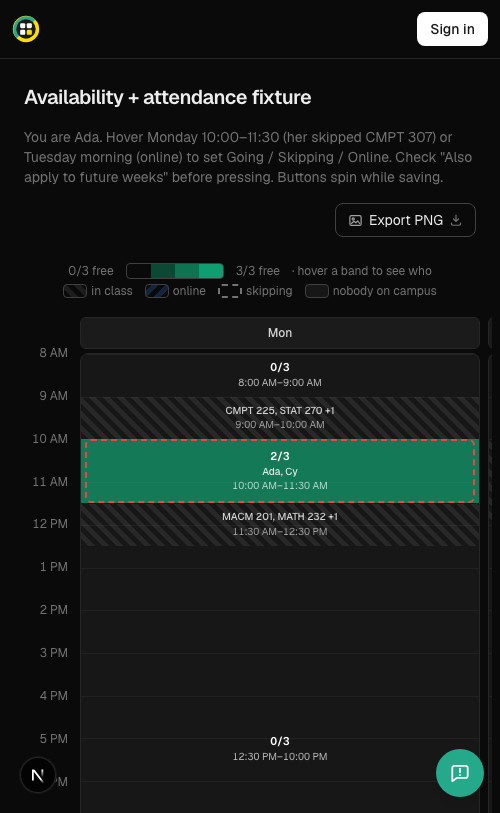
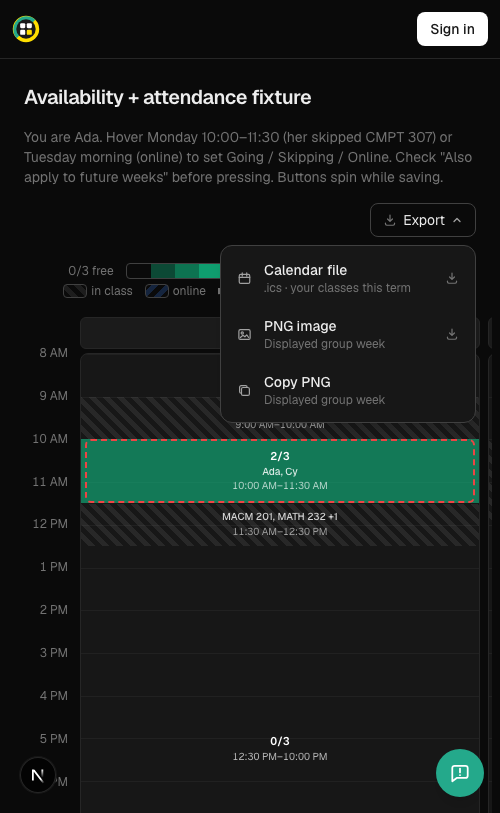
Combine calendar export options

Changed region(s): [[0.42, 0.246, 0.93, 0.5228], [0.72, 0.492, 0.75, 0.5228]]

diff --git a/components/CalendarTools.tsx b/components/CalendarTools.tsx
@@ -1,6 +1,6 @@
 "use client";
 
-import { useState, type RefObject } from "react";
+import { useEffect, useId, useRef, useState, type RefObject } from "react";
 import { calendarPngFilename } from "@/lib/calendar-image";
 
 interface Props {
@@ -15,7 +15,7 @@ interface Props {
 }
 
 /**
- * Downloads either the viewer's recurring classes or the displayed group week.
+ * Exports either the viewer's recurring classes or the displayed group week.
  *
  * The calendar link stays browser-native because its route already responds as
  * an attachment. The PNG is made from an off-screen clone of the rendered grid,
@@ -30,13 +30,39 @@ export function CalendarTools({
   week,
   view,
 }: Props) {
-  const [pngState, setPngState] = useState<"idle" | "saving" | "error">("idle");
+  const [pngAction, setPngAction] = useState<"download" | "copy" | null>(null);
+  const [pngError, setPngError] = useState<"download" | "copy" | null>(null);
+  const [copied, setCopied] = useState(false);
+  const [menuOpen, setMenuOpen] = useState(false);
+  const menuId = useId();
+  const menuRef = useRef<HTMLDivElement>(null);
+  const triggerRef = useRef<HTMLButtonElement>(null);
 
-  async function savePng() {
+  useEffect(() => {
+    if (!menuOpen) return;
+
+    function closeOutside(event: PointerEvent) {
+      if (!menuRef.current?.contains(event.target as Node)) setMenuOpen(false);
+    }
+
+    function closeOnEscape(event: KeyboardEvent) {
+      if (event.key !== "Escape") return;
+      setMenuOpen(false);
+      triggerRef.current?.focus();
+    }
+
+    document.addEventListener("pointerdown", closeOutside);
+    document.addEventListener("keydown", closeOnEscape);
+    return () => {
+      document.removeEventListener("pointerdown", closeOutside);
+      document.removeEventListener("keydown", closeOnEscape);
+    };
+  }, [menuOpen]);
+
+  async function renderPng(): Promise<Blob> {
     const calendar = calendarRef.current;
-    if (!calendar || pngState === "saving") return;
+    if (!calendar) throw new Error("The calendar is not ready to export.");
 
-    setPngState("saving");
     let clone: HTMLDivElement | null = null;
 
     try {
@@ -61,52 +87,121 @@ export function CalendarTools({
           !(node instanceof HTMLElement) || node.dataset.calendarExportIgnore !== "true",
       });
       if (!blob) throw new Error("The browser did not create an image.");
-
-      const url = URL.createObjectURL(blob);
-      const link = document.createElement("a");
-      link.download = calendarPngFilename(groupName, week, view);
-      link.href = url;
-      link.click();
-      setTimeout(() => URL.revokeObjectURL(url), 0);
-      setPngState("idle");
-    } catch (error) {
-      console.error("Could not export the calendar as PNG", error);
-      setPngState("error");
+      return blob;
     } finally {
       clone?.remove();
     }
   }
 
+  async function exportPng(action: "download" | "copy") {
+    if (pngAction) return;
+    setMenuOpen(false);
+    setPngError(null);
+    setPngAction(action);
+
+    try {
+      if (action === "copy") {
+        const blob = renderPng();
+        await navigator.clipboard.write([new ClipboardItem({ "image/png": blob })]);
+        setCopied(true);
+        setTimeout(() => setCopied(false), 2000);
+      } else {
+        const blob = await renderPng();
+        const url = URL.createObjectURL(blob);
+        const link = document.createElement("a");
+        link.download = calendarPngFilename(groupName, week, view);
+        link.href = url;
+        link.click();
+        setTimeout(() => URL.revokeObjectURL(url), 0);
+      }
+    } catch (error) {
+      console.error(`Could not ${action} the calendar PNG`, error);
+      setPngError(action);
+      setMenuOpen(true);
+    } finally {
+      setPngAction(null);
+    }
+  }
+
   return (
-    <>
-      {memberId !== null && (
-        <a
-          href={`/api/groups/${groupCode}/members/${memberId}/calendar`}
-          title="Download your classes this term as an .ics calendar file"
-          className="flex shrink-0 items-center gap-1.5 whitespace-nowrap rounded-lg border border-neutral-300 px-3 py-1.5 text-sm transition-colors hover:bg-neutral-100 dark:border-neutral-700 dark:hover:bg-neutral-800"
-        >
-          <CalendarIcon />
-          Export Calendar
-          <DownloadIcon />
-        </a>
-      )}
+    <div ref={menuRef} className="relative shrink-0">
       <button
+        ref={triggerRef}
         type="button"
-        onClick={savePng}
-        disabled={pngState === "saving"}
-        aria-label={pngState === "error" ? "PNG export failed. Try again" : undefined}
+        onClick={() => setMenuOpen((open) => !open)}
+        disabled={pngAction !== null}
+        aria-expanded={menuOpen}
+        aria-controls={menuId}
+        aria-live="polite"
         title={
-          pngState === "error"
-            ? "Could not save the PNG. Try again."
-            : "Download the displayed group calendar as a PNG image"
+          pngError
+            ? `PNG ${pngError} failed. Open to try again.`
+            : "Export this calendar"
         }
         className="flex shrink-0 items-center gap-1.5 whitespace-nowrap rounded-lg border border-neutral-300 px-3 py-1.5 text-sm transition-colors hover:bg-neutral-100 disabled:cursor-wait disabled:opacity-60 dark:border-neutral-700 dark:hover:bg-neutral-800"
       >
-        <ImageIcon />
-        {pngState === "saving" ? "Saving PNG…" : pngState === "error" ? "Try PNG again" : "Export PNG"}
-        {pngState === "saving" ? <SpinnerIcon /> : <DownloadIcon />}
+        {copied ? <CheckIcon /> : <DownloadIcon />}
+        {pngAction === "download"
+          ? "Saving PNG…"
+          : pngAction === "copy"
+            ? "Copying PNG…"
+            : copied
+              ? "Copied!"
+              : "Export"}
+        {pngAction ? <SpinnerIcon /> : <ChevronIcon open={menuOpen} />}
       </button>
-    </>
+
+      {menuOpen && (
+        <div
+          id={menuId}
+          role="group"
+          aria-label="Export options"
+          className="absolute right-0 top-full z-30 mt-2 w-64 overflow-hidden rounded-xl border border-neutral-200 bg-white p-1 shadow-lg dark:border-neutral-700 dark:bg-neutral-900"
+        >
+          {memberId !== null && (
+            <a
+              href={`/api/groups/${groupCode}/members/${memberId}/calendar`}
+              onClick={() => setMenuOpen(false)}
+              className="flex items-center gap-3 rounded-lg px-3 py-2.5 text-left transition-colors hover:bg-neutral-100 dark:hover:bg-neutral-800"
+            >
+              <CalendarIcon />
+              <span className="flex min-w-0 flex-1 flex-col">
+                <span className="text-sm font-medium">Calendar file</span>
+                <span className="text-xs text-neutral-500">.ics · your classes this term</span>
+              </span>
+              <DownloadIcon />
+            </a>
+          )}
+          <button
+            type="button"
+            onClick={() => exportPng("download")}
+            className="flex w-full items-center gap-3 rounded-lg px-3 py-2.5 text-left transition-colors hover:bg-neutral-100 dark:hover:bg-neutral-800"
+          >
+            <ImageIcon />
+            <span className="flex min-w-0 flex-1 flex-col">
+              <span className="text-sm font-medium">
+                {pngError === "download" ? "Try PNG download again" : "PNG image"}
+              </span>
+              <span className="text-xs text-neutral-500">Displayed group week</span>
+            </span>
+            <DownloadIcon />
+          </button>
+          <button
+            type="button"
+            onClick={() => exportPng("copy")}
+            className="flex w-full items-center gap-3 rounded-lg px-3 py-2.5 text-left transition-colors hover:bg-neutral-100 dark:hover:bg-neutral-800"
+          >
+            <CopyIcon />
+            <span className="flex min-w-0 flex-1 flex-col">
+              <span className="text-sm font-medium">
+                {pngError === "copy" ? "Try copying PNG again" : "Copy PNG"}
+              </span>
+              <span className="text-xs text-neutral-500">Displayed group week</span>
+            </span>
+          </button>
+        </div>
+      )}
+    </div>
   );
 }
 
@@ -143,6 +238,31 @@ function SpinnerIcon() {
     <svg width="14" height="14" viewBox="0 0 20 20" fill="none" aria-hidden className="shrink-0 animate-spin text-neutral-400 dark:text-neutral-500">
       <circle cx="10" cy="10" r="7" stroke="currentColor" strokeOpacity="0.25" strokeWidth="2" />
       <path d="M17 10a7 7 0 00-7-7" stroke="currentColor" strokeWidth="2" strokeLinecap="round" />
+    </svg>
+  );
+}
+
+function ChevronIcon({ open }: { open: boolean }) {
+  return (
+    <svg width="12" height="12" viewBox="0 0 16 16" fill="none" stroke="currentColor" strokeWidth="1.75" strokeLinecap="round" strokeLinejoin="round" aria-hidden className={`shrink-0 text-neutral-400 transition-transform ${open ? "rotate-180" : ""}`}>
+      <path d="M4 6l4 4 4-4" />
+    </svg>
+  );
+}
+
+function CopyIcon() {
+  return (
+    <svg width="15" height="15" viewBox="0 0 20 20" fill="none" stroke="currentColor" strokeWidth="1.6" strokeLinejoin="round" aria-hidden className="shrink-0 text-neutral-500 dark:text-neutral-400">
+      <rect x="6" y="6" width="10.5" height="10.5" rx="2" />
+      <path d="M13.5 6V5.5a2 2 0 00-2-2h-6a2 2 0 00-2 2v6a2 2 0 002 2H6" />
+    </svg>
+  );
+}
+
+function CheckIcon() {
+  return (
+    <svg width="14" height="14" viewBox="0 0 20 20" fill="none" stroke="currentColor" strokeWidth="2" strokeLinecap="round" strokeLinejoin="round" aria-hidden className="shrink-0 text-emerald-600 dark:text-emerald-400">
+      <path d="M4 10.5l4 4L16 6" />
     </svg>
   );
 }

diff --git a/app/g/[code]/page.tsx b/app/g/[code]/page.tsx
@@ -732,9 +732,9 @@ function GroupSchedule({ code }: { code: string }) {
           threshold is what the layout actually costs — the outer tracks are
           `1fr` each, so the empty left one is forced to mirror the right one,
           and the row needs twice the controls plus the date. Under that it
-          squeezed instead, clipping the view toggle and export buttons. */}
-      <div className="flex flex-wrap items-center justify-center gap-2 @min-[74rem]:grid @min-[74rem]:grid-cols-[1fr_auto_1fr]">
-        <div className="flex items-center gap-2 @min-[74rem]:justify-self-start">
+          squeezed instead, clipping the view toggle and export menu. */}
+      <div className="flex flex-wrap items-center justify-center gap-2 @min-[68rem]:grid @min-[68rem]:grid-cols-[1fr_auto_1fr]">
+        <div className="flex items-center gap-2 @min-[68rem]:justify-self-start">
           {week !== thisMonday && weekInTerm(thisMonday) && (
             <button
               onClick={() => setWeek(thisMonday)}
@@ -767,7 +767,7 @@ function GroupSchedule({ code }: { code: string }) {
           </button>
         </div>
 
-        <div className="flex flex-wrap items-center justify-center gap-2 @min-[74rem]:flex-nowrap @min-[74rem]:justify-self-end">
+        <div className="flex flex-wrap items-center justify-center gap-2 @min-[68rem]:flex-nowrap @min-[68rem]:justify-self-end">
           {/* Two readings of the same week, and picking one here pins it —
               otherwise `grid` above decides from how many schedules are in. */}
           <div className="flex shrink-0 overflow-hidden rounded-lg border border-neutral-300 text-sm dark:border-neutral-700">
